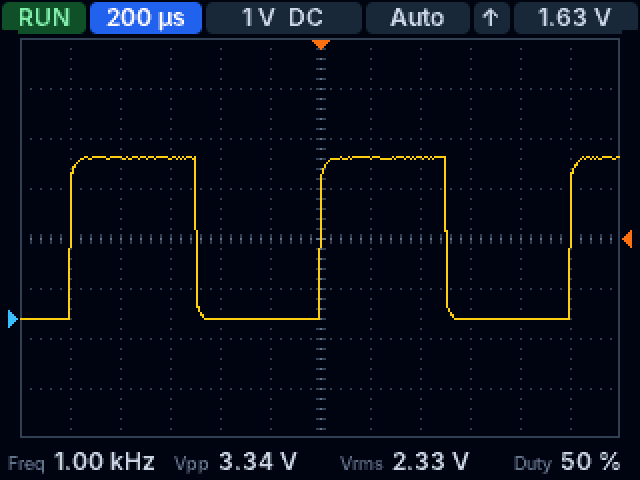
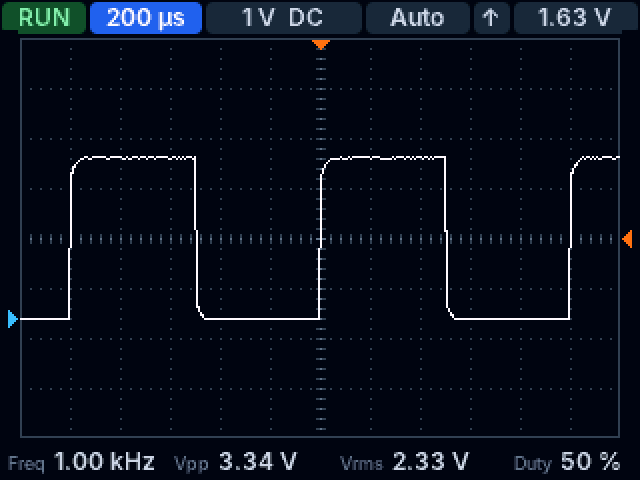
0.2.1: white trace on the device and in the live view
Claude-Session: https://claude.ai/code/session_01Gv5Aj3PtjHaRuvx5Ypizcv

diff --git a/web/src/scope.js b/web/src/scope.js
@@ -110,7 +110,7 @@ export function draw(canvas, frame) {
 	ctx.stroke();
 	ctx.setLineDash([]);
 
-	ctx.strokeStyle = '#facc15';
+	ctx.strokeStyle = '#f8fafc';
 	ctx.lineWidth = 1.5;
 	ctx.lineJoin = 'round';
 	ctx.beginPath();

diff --git a/tools/gen_fonts.py b/tools/gen_fonts.py
@@ -36,7 +36,7 @@ PALETTE = {
     "C_WHITE": "#F8FAFC",       # slate-50
     "C_ACCENT": "#2563EB",      # blue-600
     "C_ACCENT_LIGHT": "#60A5FA",  # blue-400
-    "C_TRACE": "#FACC15",       # yellow-400
+    "C_TRACE": "#F8FAFC",       # slate-50 (white)
     "C_TRACE_DIM": "#713F12",   # yellow-900
     "C_TRIG": "#F97316",        # orange-500
     "C_ZERO": "#38BDF8",        # sky-400

diff --git a/src/colors.h b/src/colors.h
@@ -14,7 +14,7 @@
 #define C_WHITE          0xFFDF  // #F8FAFC
 #define C_ACCENT         0x231D  // #2563EB
 #define C_ACCENT_LIGHT   0x653F  // #60A5FA
-#define C_TRACE          0xFE62  // #FACC15
+#define C_TRACE          0xFFDF  // #F8FAFC
 #define C_TRACE_DIM      0x71E2  // #713F12
 #define C_TRIG           0xFB82  // #F97316
 #define C_ZERO           0x3DFF  // #38BDF8

diff --git a/src/board.h b/src/board.h
@@ -10,7 +10,7 @@
 #endif
 
 #define FW_NAME    "DSO138 Open"
-#define FW_VERSION "0.2.0"
+#define FW_VERSION "0.2.1"
 
 // ---------------------------------------------------------------------------
 // TFT (ILI9341, 8-bit parallel 8080 bus)
